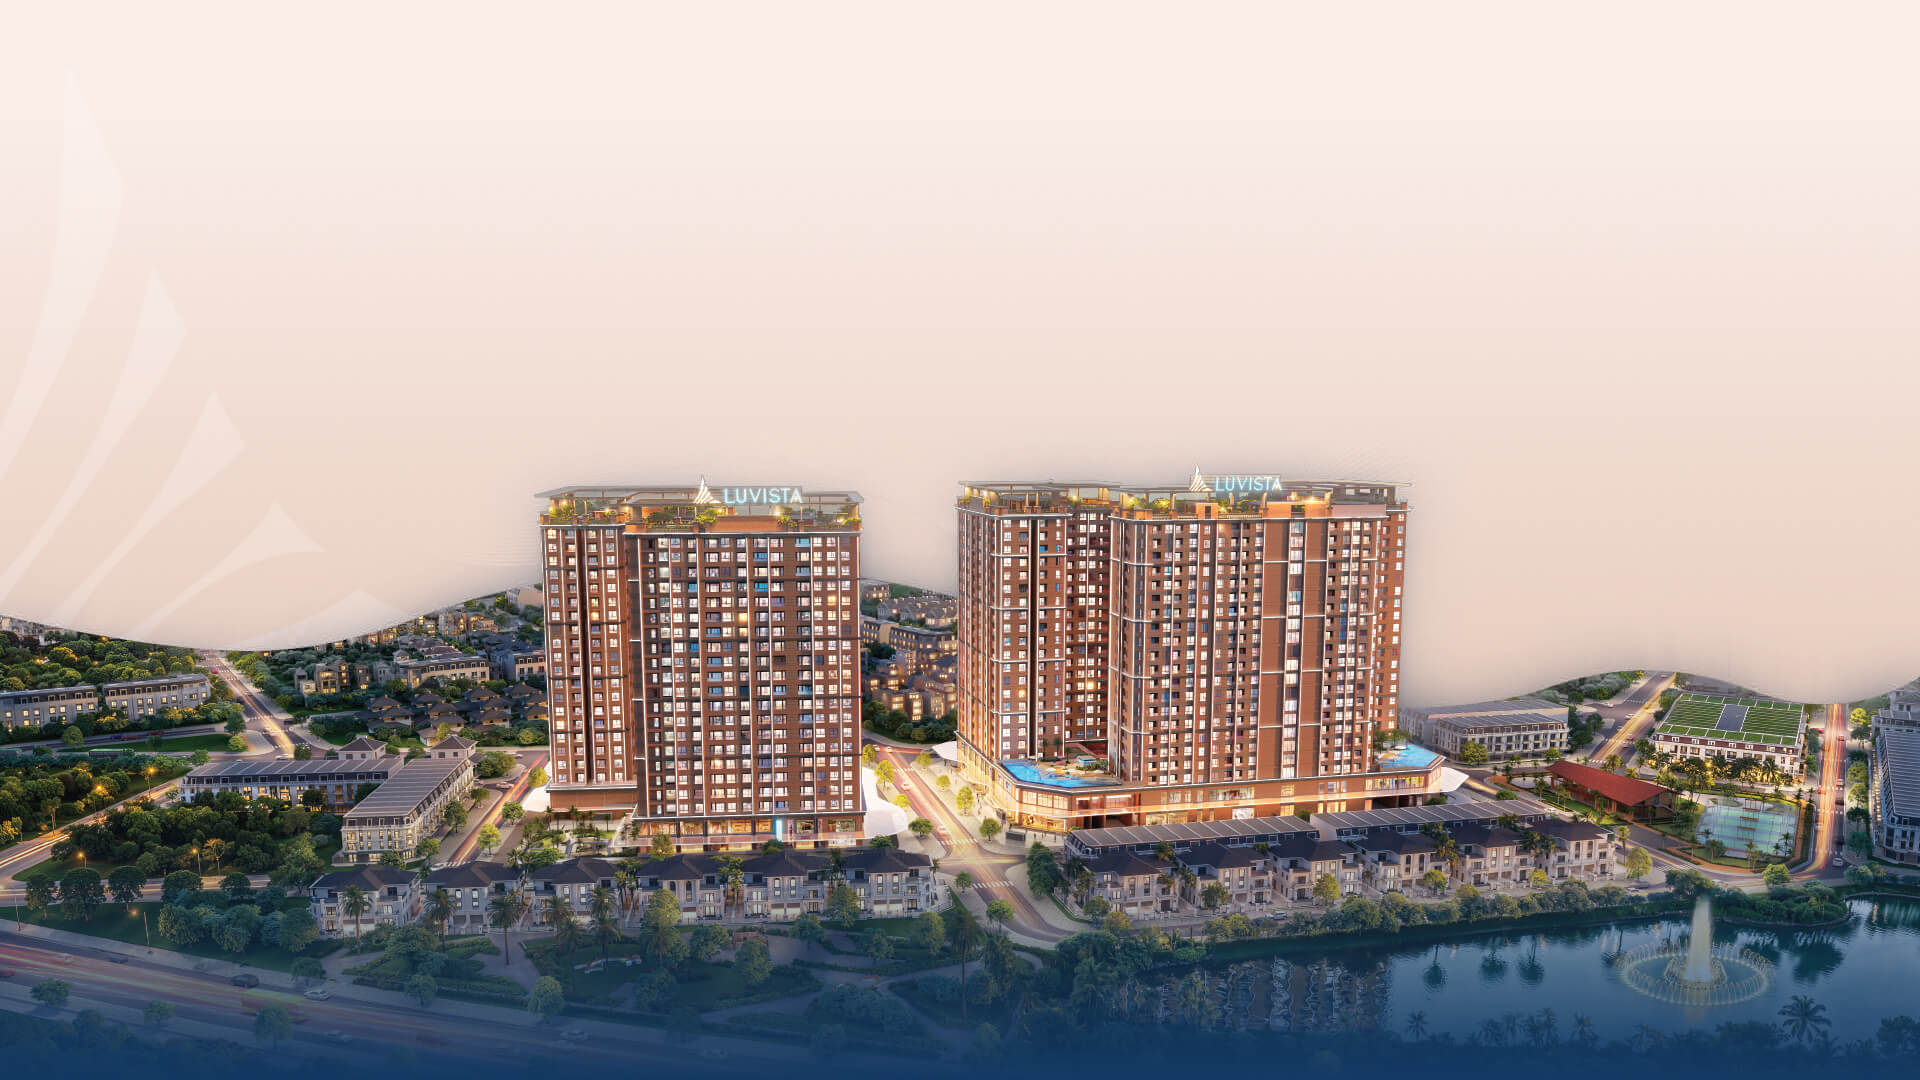
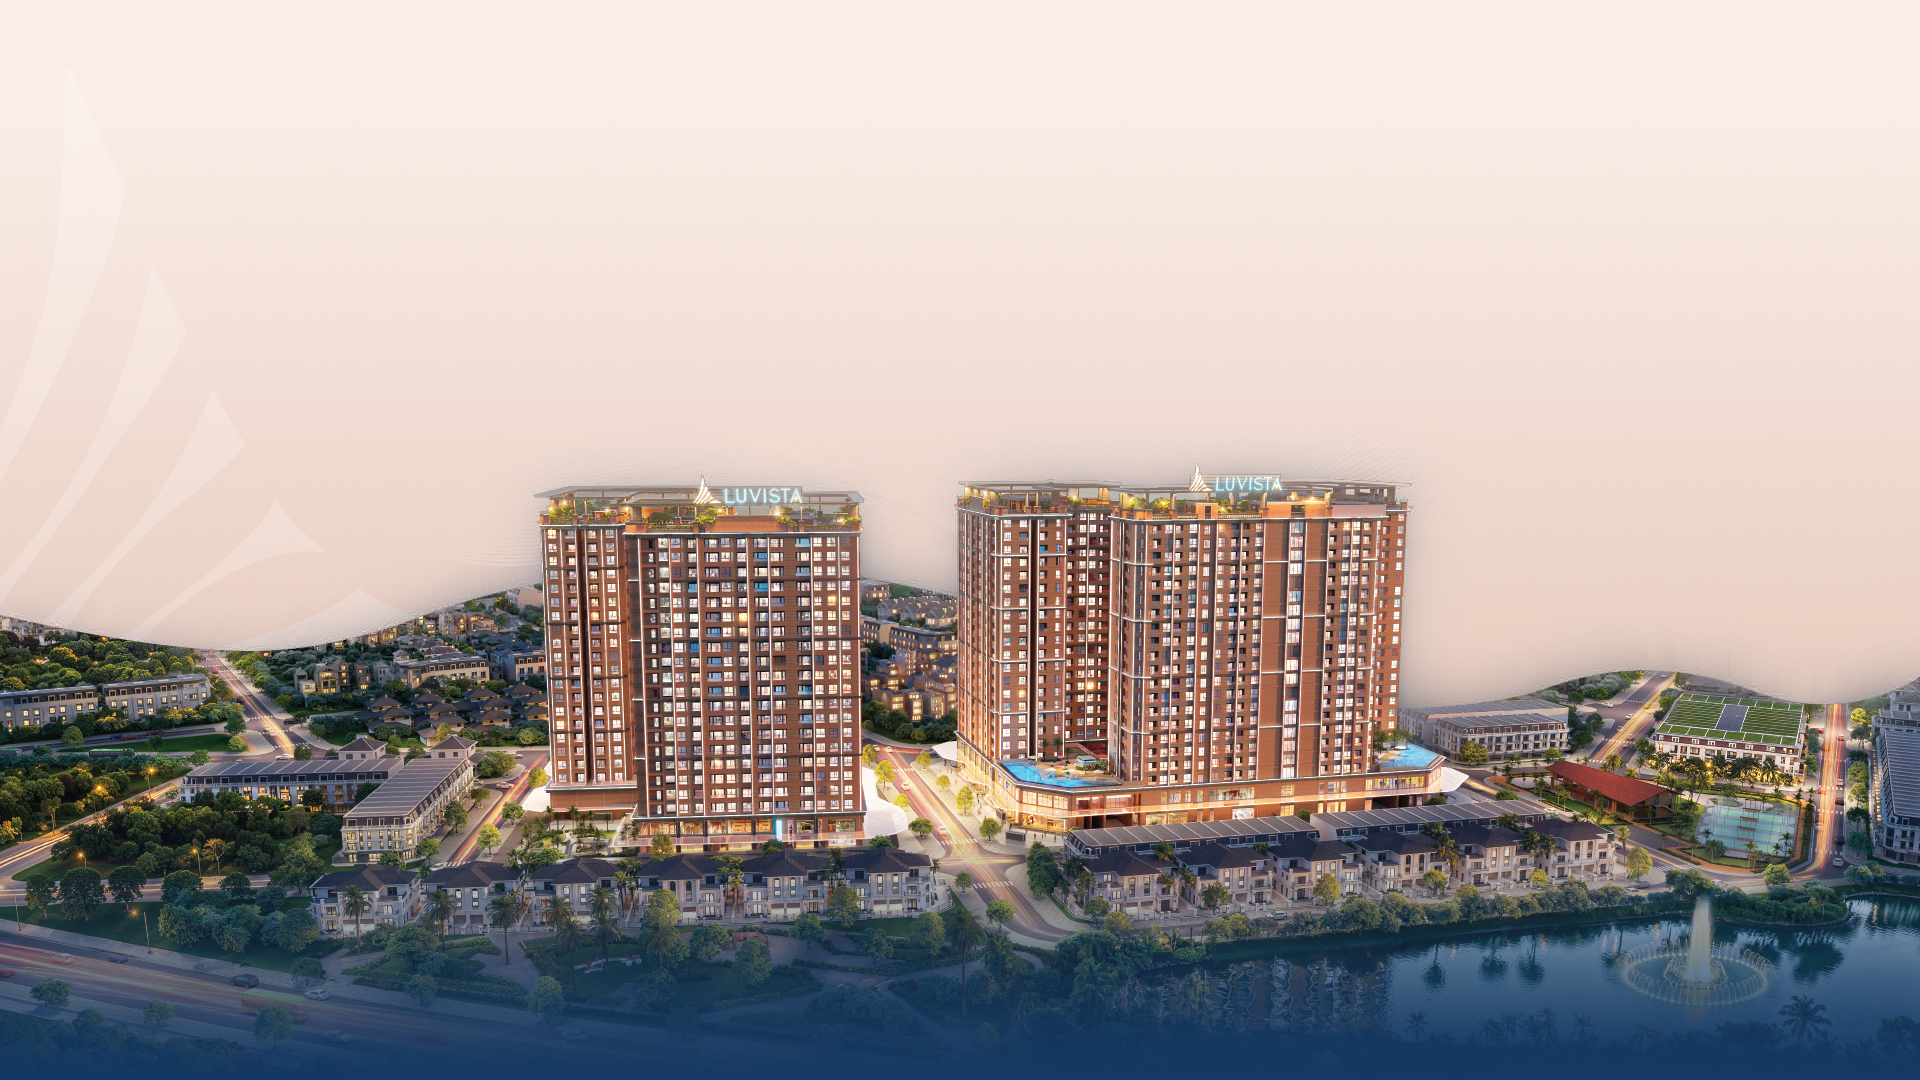
[upd]

diff --git a/src/scss/_parts/_footer.scss b/src/scss/_parts/_footer.scss
@@ -151,6 +151,16 @@
     visibility: hidden;
     transition: opacity .35s ease, visibility .35s ease;
 
+    svg { display: block; width: 100%; height: 100%; }
+    circle { transition: fill .25s ease; }
+    path { transition: stroke .25s ease; }
+
+    &:hover,
+    &:focus-visible {
+      circle { fill: #143963; }
+      path { stroke: #f6d3bc; }
+    }
+
     &.is-active {
       opacity: 1;
       visibility: visible;
@@ -164,6 +174,10 @@
   @include desktop {
     .group-bg {
       padding: 1rem 0 .5rem;
+    }
+
+    .wrapper {
+      padding-top: .3rem;
     }
 
     .section-footer-common-consultation {
